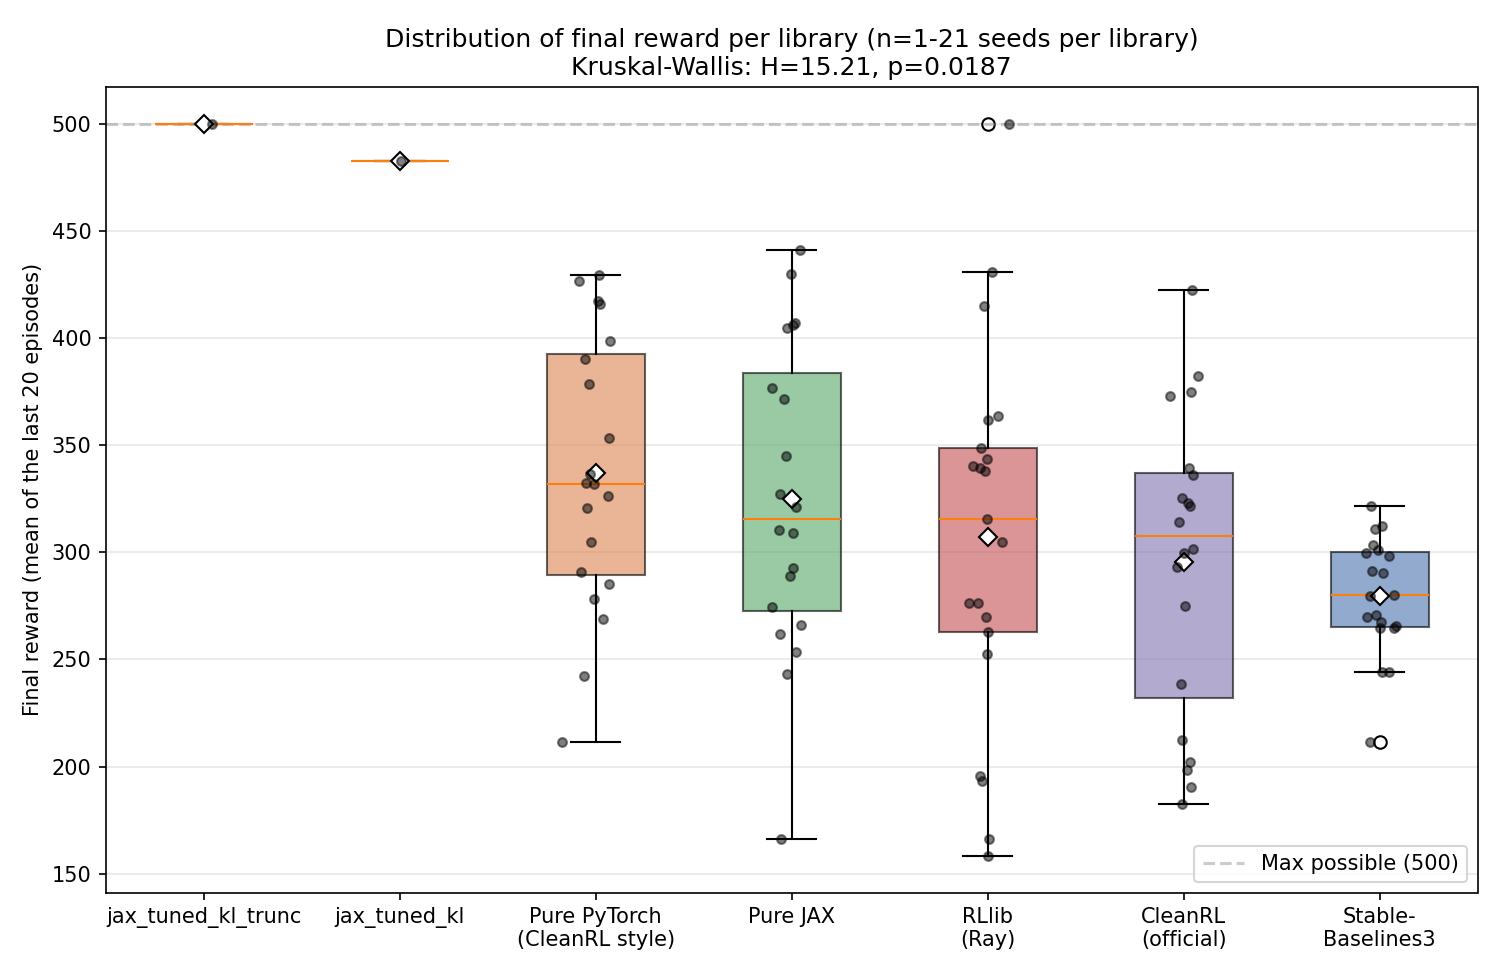
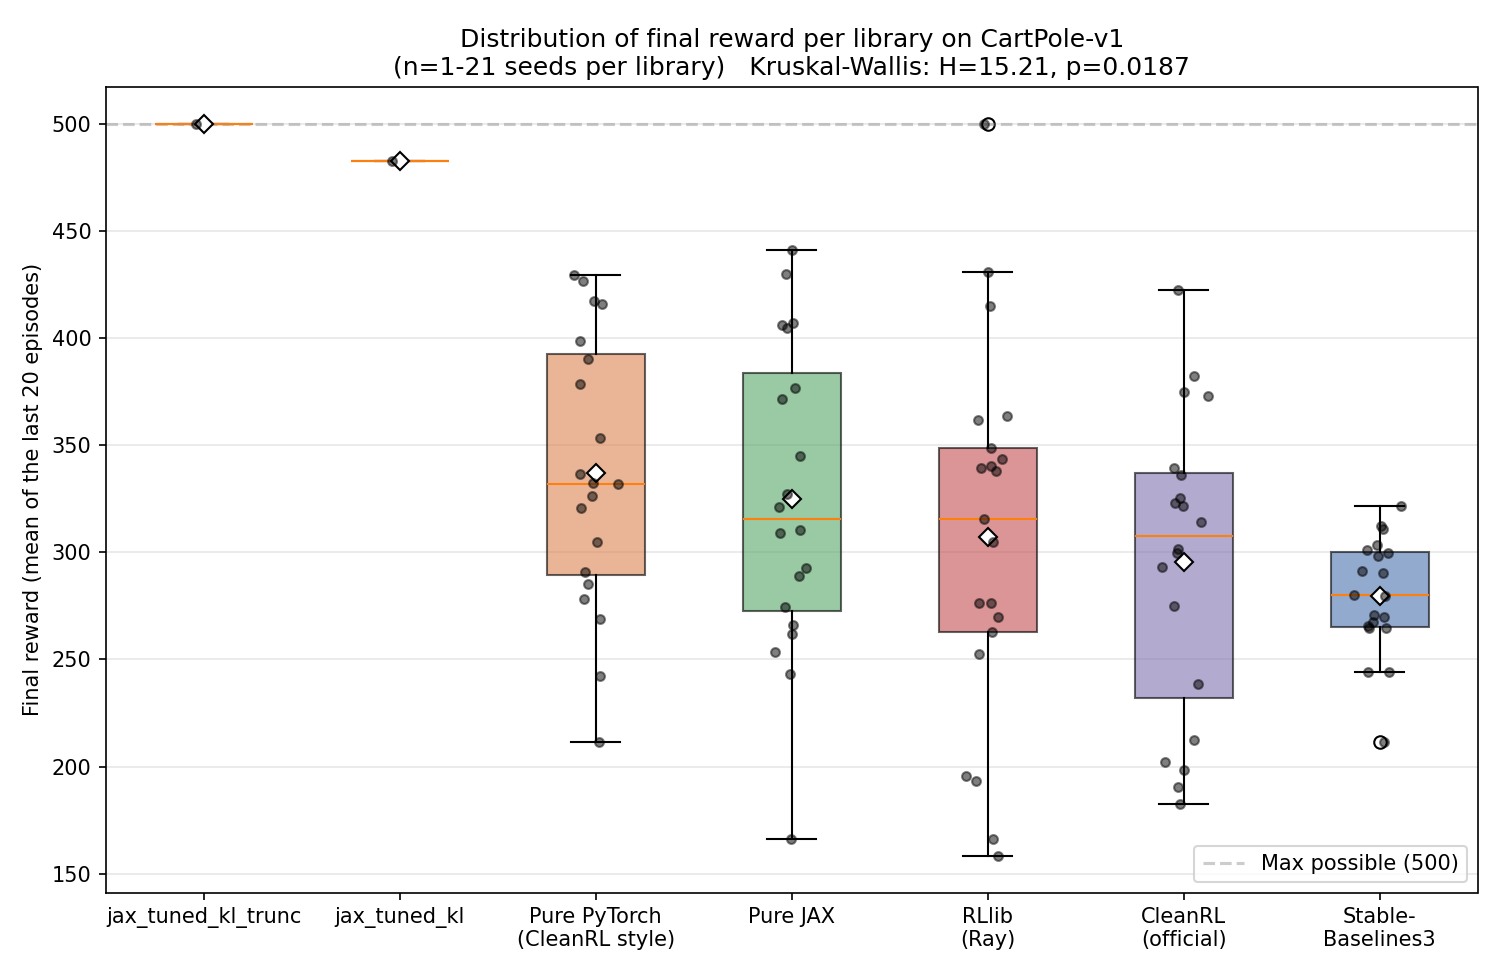
fix: skip the arm that recorded no data, and publish the LunarLander figures
compare.py and boxplot.py aborted on the LunarLander results because
tianshou_seed42.json stores an empty curve and a null final reward - the reason
no figure was ever committed for that env. Both now skip a group with nothing to
plot and name it in the figure title, so the omission is visible on the image
rather than silent; stats_test.py gets the same filter plus a UTF-8 stdout
reconfigure, since its arrows crash a cp1252 Windows console.

compare.py also had a hard-coded "PPO on CartPole-v1" title, so the LunarLander
chart it produced was labelled with the wrong environment; it now uses ENV_TAG.

Adds the four new PNGs (comparison and boxplot for LunarLander-v3 and its Zoo
variant) and refreshes the CartPole boxplot, whose title now states the env and
the real seed range. Regenerated from committed JSON only - no retraining - and
the numbers match the study's tables.

diff --git a/ppo-versions/scripts/boxplot.py b/ppo-versions/scripts/boxplot.py
@@ -41,8 +41,14 @@ for path in glob.glob(f"{RESULTS_DIR}/*.json"):
     with open(path) as f:
         runs[name].append(json.load(f))
 
-order = sorted(runs.keys(), key=lambda n: -np.mean([r["final_reward"] for r in runs[n]]))
-data = [np.array([r["final_reward"] for r in runs[n]]) for n in order]
+# One arm (tianshou on LunarLander) stored a null final_reward because its run
+# produced no curve; it cannot be boxed, so drop it here and name it in the
+# title instead of letting the figure silently omit it.
+usable = {n: [r for r in runs[n] if r.get("final_reward") is not None] for n in runs}
+excluded = sorted(n for n in usable if not usable[n])
+usable = {n: v for n, v in usable.items() if v}
+order = sorted(usable.keys(), key=lambda n: -np.mean([r["final_reward"] for r in usable[n]]))
+data = [np.array([r["final_reward"] for r in usable[n]]) for n in order]
 seed_counts = [len(d) for d in data]
 n_seeds = (f"{min(seed_counts)}-{max(seed_counts)}"
            if min(seed_counts) != max(seed_counts) else str(seed_counts[0]))
@@ -62,11 +68,17 @@ for i, d in enumerate(data):
 
 ax.axhline(500, color="gray", linestyle="--", alpha=0.4, label="Max possible (500)")
 ax.set_ylabel("Final reward (mean of the last 20 episodes)")
-ax.set_title(f"Distribution of final reward per library (n={n_seeds} seeds per library)\n"
-             f"Kruskal-Wallis: H={h_stat:.2f}, p={p_kw:.4f}")
+title = (f"Distribution of final reward per library on {ENV_TAG}\n"
+         f"(n={n_seeds} seeds per library)   "
+         f"Kruskal-Wallis: H={h_stat:.2f}, p={p_kw:.4f}")
+if excluded:
+    title += f"\nnot shown, no final reward recorded: {', '.join(excluded)}"
+ax.set_title(title)
 ax.legend(loc="lower right")
 ax.grid(alpha=0.3, axis="y")
 fig.tight_layout()
 os.makedirs(FIGURES_DIR, exist_ok=True)
 fig.savefig(OUT_PATH, dpi=150)
 print(f"saved boxplot to {OUT_PATH}")
+if excluded:
+    print(f"excluded, no final reward recorded: {', '.join(excluded)}")

diff --git a/ppo-versions/scripts/stats_test.py b/ppo-versions/scripts/stats_test.py
@@ -12,6 +12,10 @@ import numpy as np
 from scipy import stats
 
 import os
+import sys
+
+# Windows consoles default to cp1252 and cannot encode the arrows printed below
+sys.stdout.reconfigure(encoding="utf-8", errors="replace")
 PROJECT_ROOT = os.path.dirname(os.path.dirname(os.path.abspath(__file__)))
 ENV_TAG = os.environ.get("PPO_ENV", "CartPole-v1").replace("/", "_") + os.environ.get("PPO_RUN_TAG", "")
 RESULTS_DIR = f"{PROJECT_ROOT}/results/{ENV_TAG}"
@@ -32,7 +36,12 @@ for path in glob.glob(f"{RESULTS_DIR}/*.json"):
     with open(path) as f:
         runs[name].append(json.load(f))
 
-finals = {name: np.array([r["final_reward"] for r in seed_runs]) for name, seed_runs in runs.items()}
+finals = {name: np.array([r["final_reward"] for r in seed_runs
+                          if r["final_reward"] is not None])
+          for name, seed_runs in runs.items()}
+# an arm whose run stored a null final_reward has no sample left to test
+excluded = sorted(n for n, v in finals.items() if v.size == 0)
+finals = {n: v for n, v in finals.items() if v.size}
 
 counts = [len(v) for v in finals.values()]
 n_label = (f"{min(counts)}-{max(counts)}"
@@ -40,6 +49,8 @@ n_label = (f"{min(counts)}-{max(counts)}"
 print("=" * 70)
 print(f"DESCRIPTIVE STATISTICS (n={n_label} seeds per library)")
 print("=" * 70)
+if excluded:
+    print(f"excluded, no final reward recorded: {', '.join(excluded)}")
 for name, vals in sorted(finals.items(), key=lambda kv: -kv[1].mean()):
     print(f"{labels.get(name, name):32s} mean ={vals.mean():7.1f}  median ={np.median(vals):7.1f}  "
           f"std={vals.std():6.1f}  min={vals.min():6.1f}  max={vals.max():6.1f}")

diff --git a/ppo-versions/scripts/compare.py b/ppo-versions/scripts/compare.py
@@ -43,8 +43,12 @@ for path in glob.glob(f"{RESULTS_DIR}/*.json"):
 fig, ax = plt.subplots(figsize=(9.5, 6))
 
 summary_rows = []
+excluded = []
 for name, seed_runs in runs.items():
     seed_runs = sorted(seed_runs, key=lambda d: d.get("seed", 0))
+    if not any(r["rewards"] for r in seed_runs):
+        excluded.append(name)  # this arm saved no curve; there is nothing to plot
+        continue
     n_seeds = len(seed_runs)
 
     common_max = min(r["rewards"][-1][0] for r in seed_runs if r["rewards"])
@@ -76,7 +80,10 @@ for name, seed_runs in runs.items():
 
 ax.set_xlabel("Timesteps")
 ax.set_ylabel("Mean reward (20-episode window)")
-ax.set_title("PPO on CartPole-v1 — mean ± std deviation across seeds")
+title = f"PPO on {ENV_TAG} — mean ± std deviation across seeds"
+if excluded:
+    title += f"\nnot shown, no curve recorded: {', '.join(sorted(excluded))}"
+ax.set_title(title)
 ax.axhline(500, color="gray", linestyle="--", alpha=0.4, label="Max possible (500)")
 ax.legend(loc="lower right", fontsize=9)
 ax.grid(alpha=0.3)
@@ -84,6 +91,8 @@ fig.tight_layout()
 os.makedirs(FIGURES_DIR, exist_ok=True)
 fig.savefig(OUT_PATH, dpi=150)
 print(f"saved chart to {OUT_PATH}")
+if excluded:
+    print(f"excluded, no curve recorded: {', '.join(sorted(excluded))}")
 
 summary_rows.sort(key=lambda r: -r["final_mean"])
 print("\n| Library | Seeds | Final reward (mean ± std) | Mean time (s) |")

diff --git a/README.md b/README.md
@@ -275,11 +275,11 @@ PPO_ENV=LunarLander-v3 PPO_SEED=42 PPO_RUN_TAG=-zoo python scripts/eval_stats.py
 Output paths resolve relative to the script, so a re-run writes inside the project:
 `results/` and `results_eval/` for the JSON, `figures/` for the PNGs the post-processing
 scripts produce. The study itself ran on a throwaway Linux sandbox that wrote to
-`/home/claude/ppo-benchmark` and `/mnt/user-data/outputs`; the five figures now under
-`figures/` were regenerated from the committed JSON, and their statistics match the tables in
-the project README. The two LunarLander training-curve figures cannot be produced:
-`results/LunarLander-v3/tianshou_seed42.json` stores an empty curve and a null final reward,
-and both plotters drop out on it. Note that `results/` and `results_eval/`
+`/home/claude/ppo-benchmark` and `/mnt/user-data/outputs`; the nine figures under `figures/`
+were regenerated from the committed JSON alone, and their statistics match the tables in the
+project README. One arm is missing from the LunarLander plots:
+`results/LunarLander-v3/tianshou_seed42.json` stores an empty curve and a null final reward, so
+the post-processors skip it and name it in the figure title instead of dropping it silently. Note that `results/` and `results_eval/`
 are the committed record of the benchmark, and a re-run overwrites files with the same name in
 place — set `PPO_RUN_TAG` to keep a new run separate.
 
